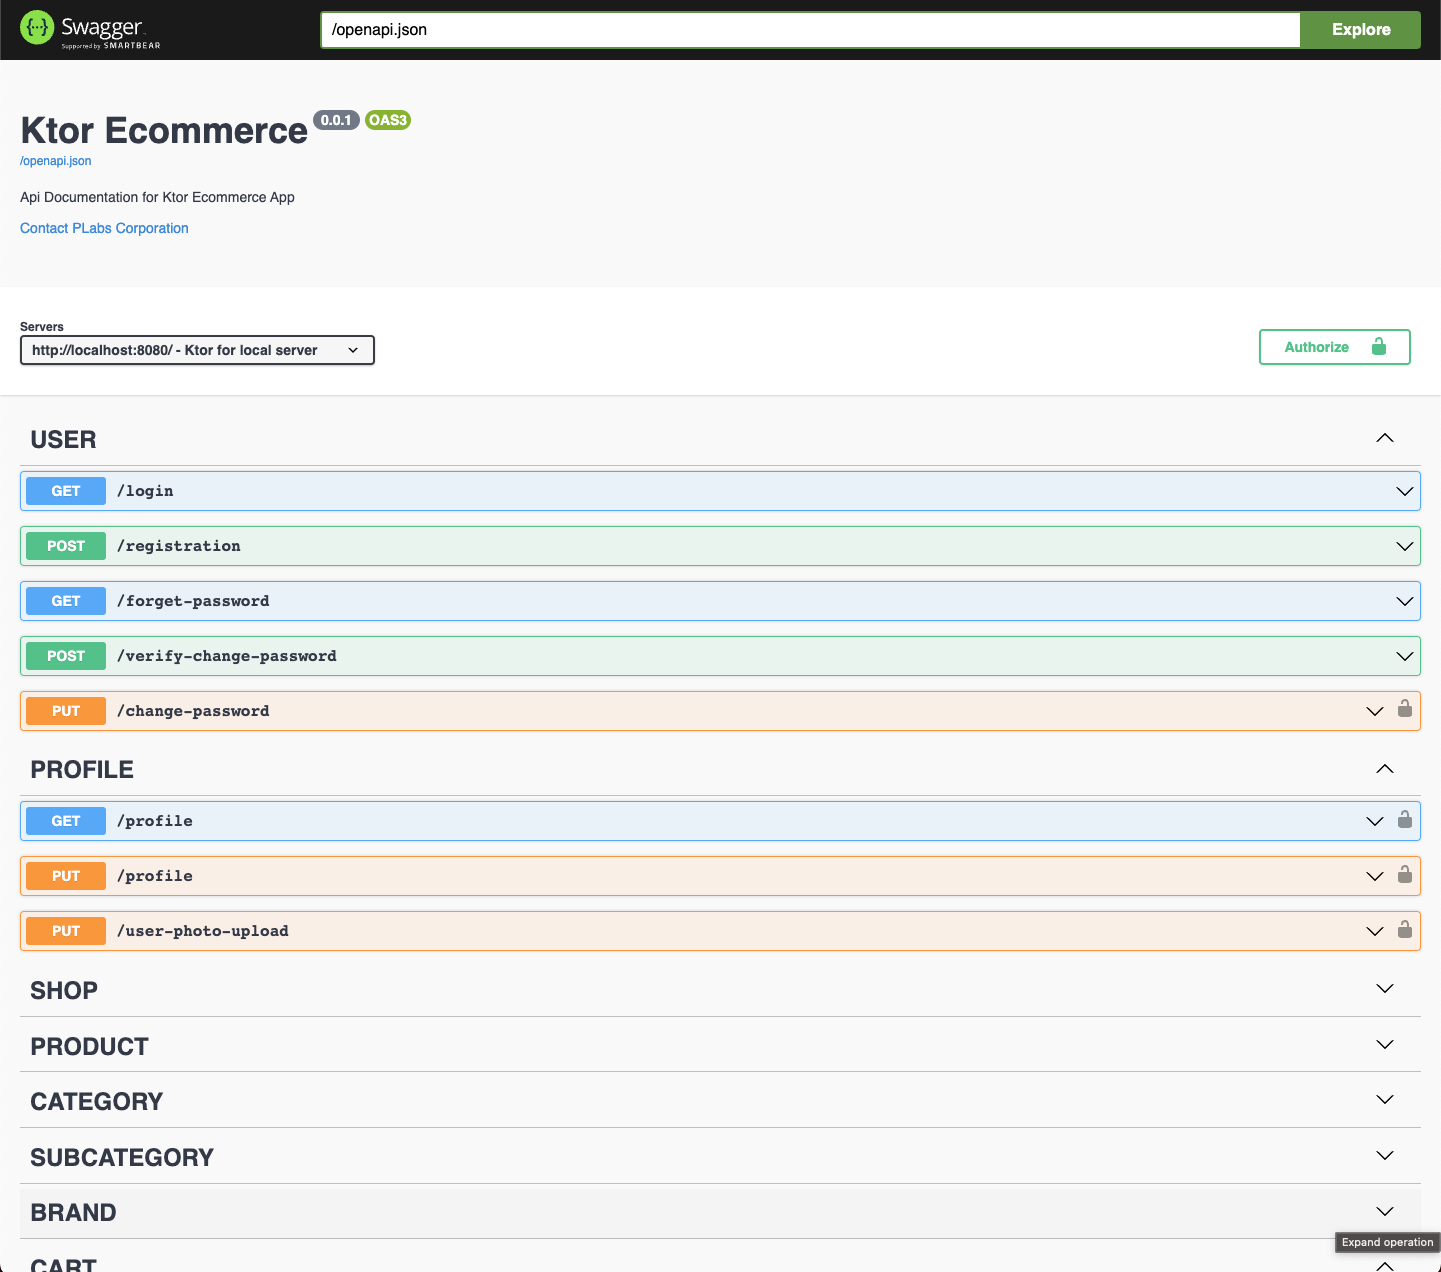
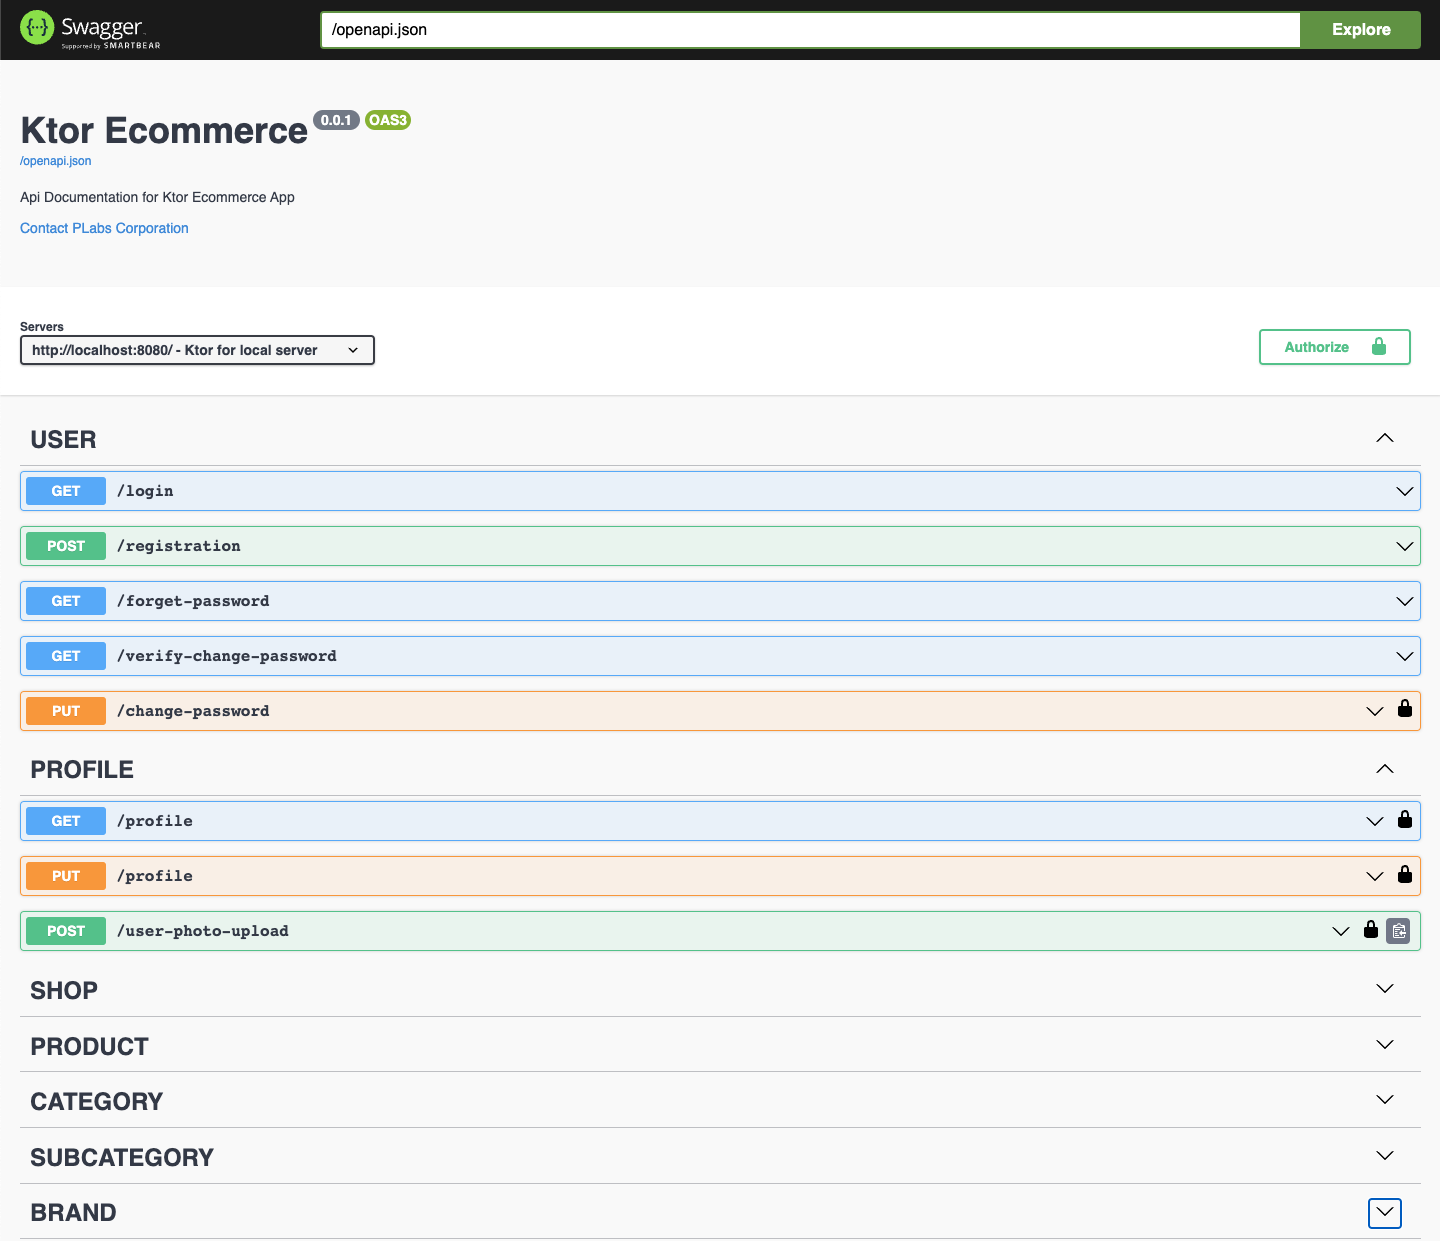
- Code optimization

diff --git a/src/main/kotlin/com/piashcse/routing/ProfileRouting.kt b/src/main/kotlin/com/piashcse/routing/ProfileRouting.kt
@@ -1,6 +1,7 @@
 package com.piashcse.routing
 
 import com.papsign.ktor.openapigen.route.path.auth.get
+import com.papsign.ktor.openapigen.route.path.auth.post
 import com.papsign.ktor.openapigen.route.path.auth.principal
 import com.papsign.ktor.openapigen.route.path.auth.put
 import com.papsign.ktor.openapigen.route.path.normal.NormalOpenAPIRoute
@@ -40,8 +41,7 @@ fun NormalOpenAPIRoute.profileRouting(profileController: ProfileController) {
             )
         }
 
-        route("user-photo-upload").put<UserId, Response, MultipartImage, JwtTokenBody> { params, multipartData ->
-            params.validation()
+        route("user-photo-upload").post<Unit, Response, MultipartImage, JwtTokenBody> { _, multipartData ->
             multipartData.validation()
 
             UUID.randomUUID()?.let { imageId ->
@@ -54,7 +54,7 @@ fun NormalOpenAPIRoute.profileRouting(profileController: ProfileController) {
                     })
                 }
                 val fileNameInServer = imageId.toString().plus(fileLocation?.fileExtension())
-                profileController.updateProfileImage(params.userId, fileNameInServer)?.let {
+                profileController.updateProfileImage(principal().userId, fileNameInServer)?.let {
                     respond(
                         ApiResponse.success(fileNameInServer, HttpStatusCode.OK)
                     )

diff --git a/src/main/kotlin/com/piashcse/controller/UserController.kt b/src/main/kotlin/com/piashcse/controller/UserController.kt
@@ -7,8 +7,6 @@ import com.piashcse.models.user.response.RegistrationResponse
 import com.piashcse.utils.*
 import org.jetbrains.exposed.sql.*
 import org.jetbrains.exposed.sql.transactions.transaction
-import java.nio.file.Files
-import java.nio.file.Paths
 import kotlin.random.Random
 
 class UserController {
@@ -78,7 +76,7 @@ class UserController {
         }
     }
 
-    fun confirmPassword(confirmPasswordBody: ConfirmPasswordBody) = transaction {
+    fun confirmPassword(confirmPasswordBody: ConfirmPassword) = transaction {
         val userEntity = UsersEntity.find { UserTable.email eq confirmPasswordBody.email }.toList().singleOrNull()
         return@transaction userEntity?.let {
             if (confirmPasswordBody.verificationCode == it.verificationCode) {

diff --git a/src/main/kotlin/com/piashcse/models/user/body/ConfirmPassword.kt b/src/main/kotlin/com/piashcse/models/user/body/ConfirmPassword.kt
@@ -1,0 +1,20 @@
+package com.piashcse.models.user.body
+
+import com.papsign.ktor.openapigen.annotations.parameters.QueryParam
+import org.valiktor.functions.isEmail
+import org.valiktor.functions.isNotNull
+import org.valiktor.validate
+
+data class ConfirmPassword(
+    @QueryParam("email") val email: String,
+    @QueryParam("verificationCode") val verificationCode: String,
+    @QueryParam("password") val password: String
+) {
+    fun validation() {
+        validate(this) {
+            validate(ConfirmPassword::email).isNotNull().isEmail()
+            validate(ConfirmPassword::verificationCode).isNotNull()
+            validate(ConfirmPassword::password).isNotNull()
+        }
+    }
+}

diff --git a/src/main/kotlin/com/piashcse/routing/UserRouting.kt b/src/main/kotlin/com/piashcse/routing/UserRouting.kt
@@ -55,9 +55,9 @@ fun NormalOpenAPIRoute.userRoute(userController: UserController) {
             )
         }
     }
-    route("verify-change-password").post<Unit, Response, ConfirmPasswordBody> { _, requestBody ->
-        requestBody.validation()
-        UserController().confirmPassword(requestBody).let {
+    route("verify-change-password").get<ConfirmPassword, Response> { params ->
+        params.validation()
+        UserController().confirmPassword(params).let {
             when (it) {
                 AppConstants.DataBaseTransaction.FOUND -> {
                     respond(
